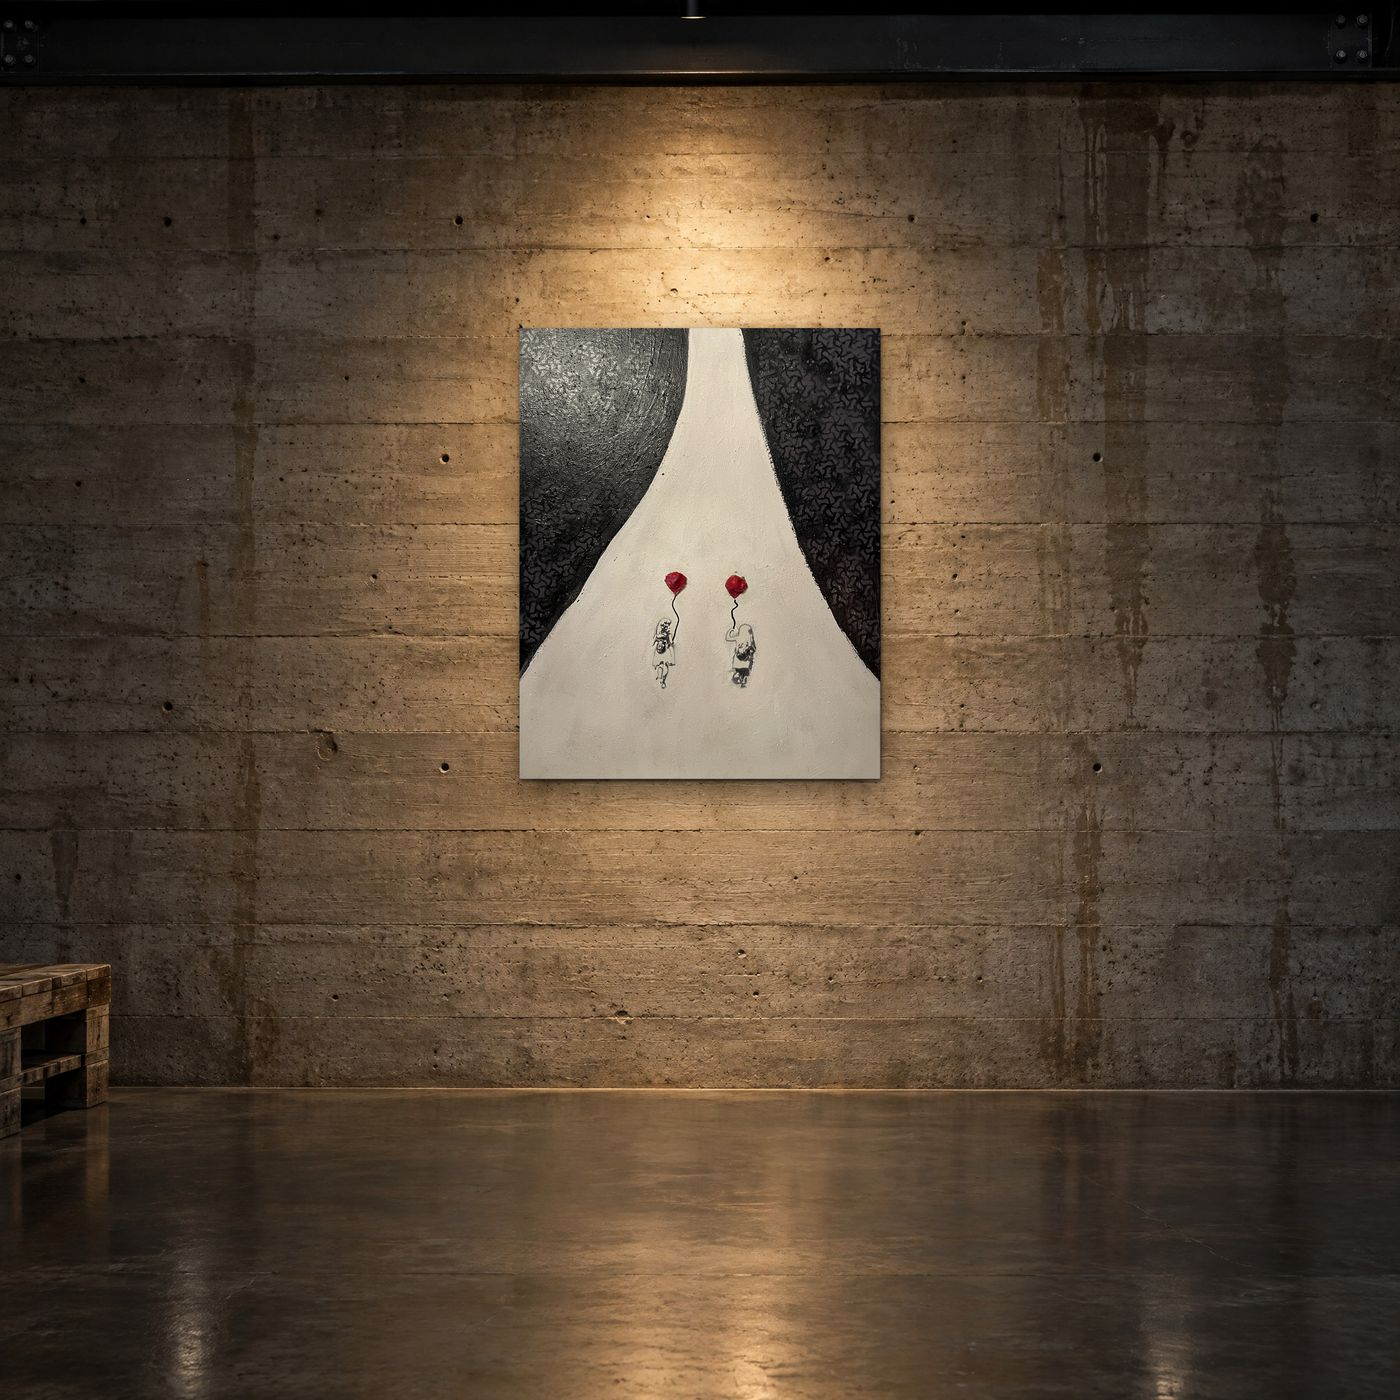
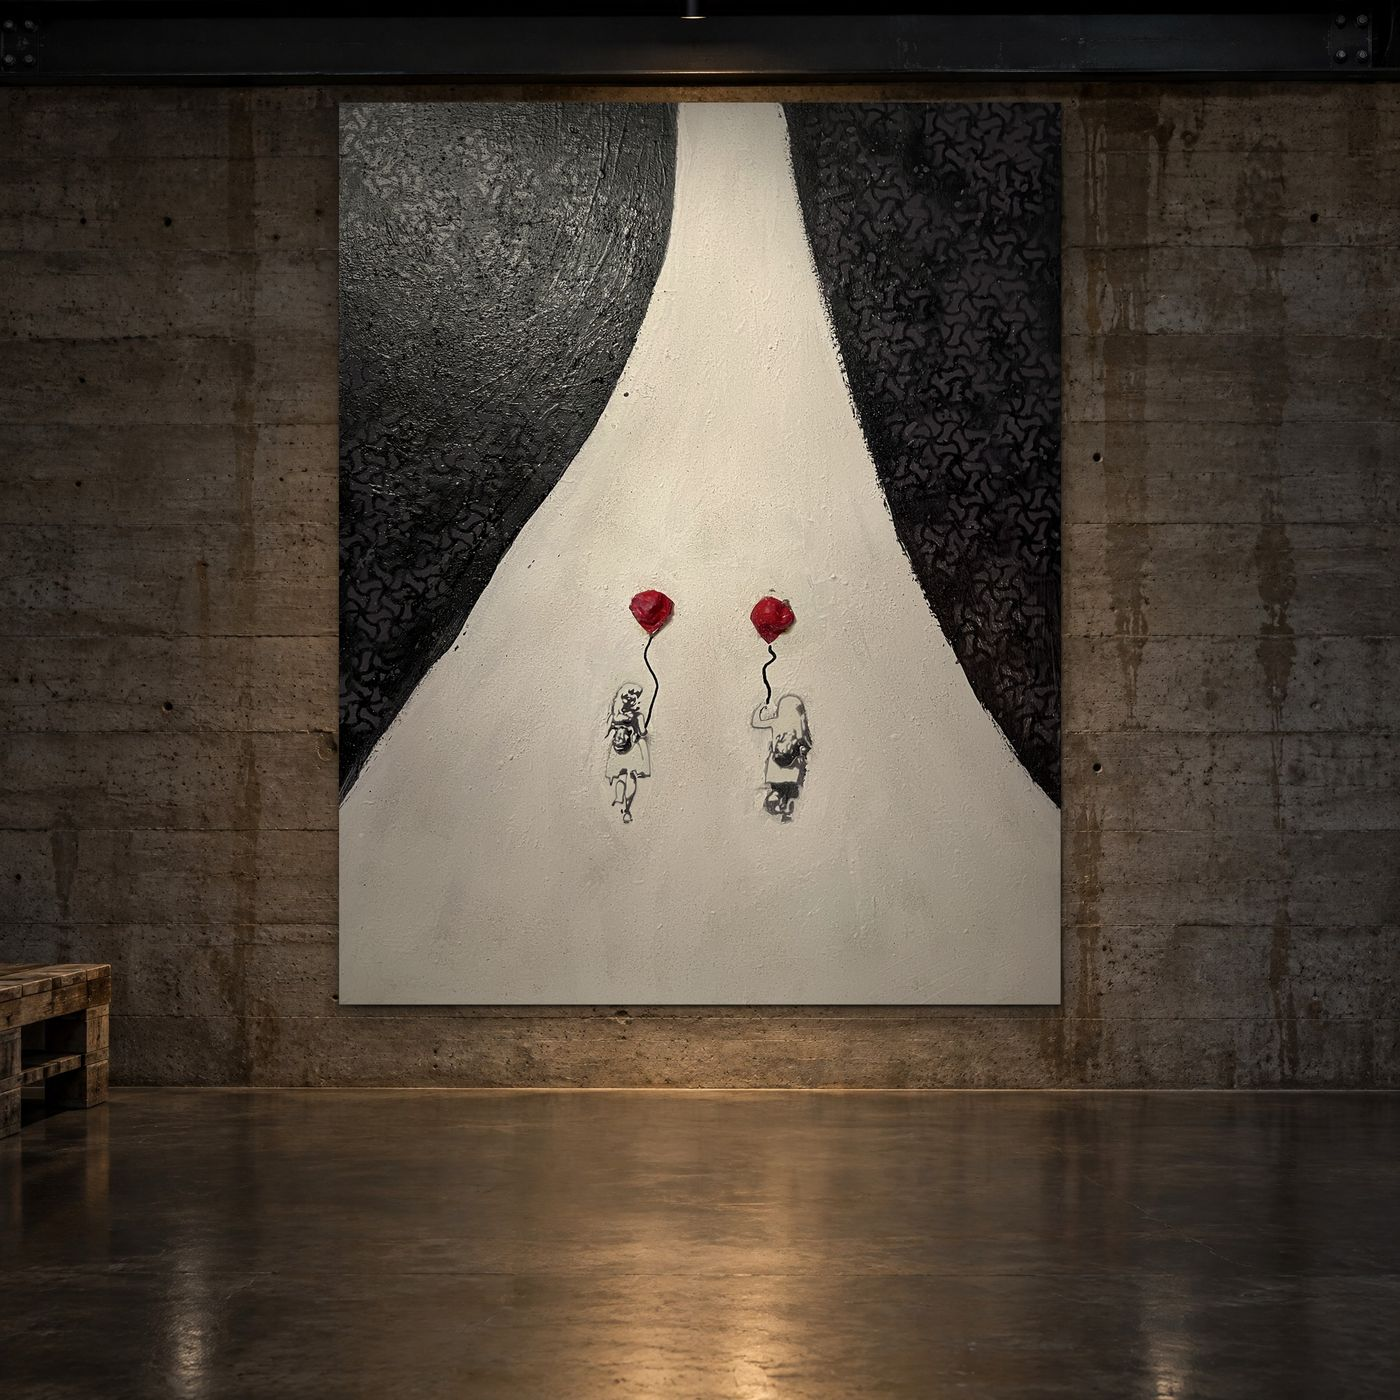
Add Stripe links, sizes, years and prices for the new paintings
Each of the 13 available new pieces now has its own live Stripe Payment
Link, set up like the existing ones (one sale, then it deactivates; $50
US shipping). Curtain Call and Walk Home are 48 × 60 in at $720 and
their wall photos are re-rendered at that size; the rest are 24 × 30 in
at $480 (Groundwater stays 30 × 30). Years filled in.

The shipping policy no longer says every frame is display-only, since
Open Heart and Purple & Gold sell with their frames.

Claude-Session: https://claude.ai/code/session_015duu2mxyZctHv8VGpV9Sao

Changed region(s): [[0.215, 0.0614, 0.7679, 0.7371]]

diff --git a/src/data/paintings.js b/src/data/paintings.js
@@ -28,7 +28,7 @@ export const paintings = [
   {
     id: 'pleasure-palace',
     title: 'Pleasure Palace',
-    year: null, // TODO: year from Scott
+    year: 2024,
     dimensions: '48 × 60 in',
     medium: 'Spray Paint, Acrylic, and Mixed Texture',
     framing: null,
@@ -92,13 +92,13 @@ export const paintings = [
   {
     id: 'verdigris',
     title: 'Verdigris',
-    year: null, // TODO: year from Scott
+    year: 2025,
     dimensions: '24 × 30 in',
     medium: 'Spray Paint, Acrylic, and Mixed Texture',
     framing: 'Unframed',
     price: '$480',
     status: 'Original Available',
-    stripeLink: '',
+    stripeLink: 'https://buy.stripe.com/7sYdRadjS9tUbnrbGY53O06', // live — one sale, then deactivates
     image: asset('artwork/verdigris-web.jpg'),
     hiRes: asset('artwork/verdigris.jpg'),
     canvas: asset('artwork/verdigris-canvas.jpg'),
@@ -108,13 +108,13 @@ export const paintings = [
   {
     id: 'nightshade',
     title: 'Nightshade',
-    year: null, // TODO: year from Scott
+    year: 2025,
     dimensions: '24 × 30 in',
     medium: 'Spray Paint, Acrylic, and Mixed Texture',
     framing: 'Unframed',
     price: '$480',
     status: 'Original Available',
-    stripeLink: '',
+    stripeLink: 'https://buy.stripe.com/8x2fZi2FecG64Z3dP653O07', // live — one sale, then deactivates
     image: asset('artwork/nightshade-web.jpg'),
     hiRes: asset('artwork/nightshade.jpg'),
     canvas: asset('artwork/nightshade-canvas.jpg'),
@@ -124,13 +124,13 @@ export const paintings = [
   {
     id: 'backporch',
     title: 'Backporch',
-    year: null, // TODO: year from Scott
+    year: 2025,
     dimensions: '24 × 30 in',
     medium: 'Spray Paint, Acrylic, and Mixed Texture',
     framing: 'Unframed',
     price: '$480',
     status: 'Original Available',
-    stripeLink: '',
+    stripeLink: 'https://buy.stripe.com/7sY8wQfs00XogHLaCU53O08', // live — one sale, then deactivates
     image: asset('artwork/backporch-web.jpg'),
     hiRes: asset('artwork/backporch.jpg'),
     canvas: asset('artwork/backporch-canvas.jpg'),
@@ -140,13 +140,13 @@ export const paintings = [
   {
     id: 'understory',
     title: 'Understory',
-    year: null, // TODO: year from Scott
+    year: 2024,
     dimensions: '24 × 30 in',
     medium: 'Spray Paint, Acrylic, and Mixed Texture',
     framing: 'Unframed',
     price: '$480',
     status: 'Original Available',
-    stripeLink: '',
+    stripeLink: 'https://buy.stripe.com/eVqeVe7Zy7lM8bf12k53O09', // live — one sale, then deactivates
     image: asset('artwork/understory-web.jpg'),
     hiRes: asset('artwork/understory.jpg'),
     canvas: asset('artwork/understory-canvas.jpg'),
@@ -156,13 +156,13 @@ export const paintings = [
   {
     id: 'rust-signal',
     title: 'Rust Signal',
-    year: null, // TODO: year from Scott
+    year: 2023,
     dimensions: '24 × 30 in',
     medium: 'Spray Paint, Acrylic, and Mixed Texture',
     framing: 'Unframed',
     price: '$480',
     status: 'Original Available',
-    stripeLink: '',
+    stripeLink: 'https://buy.stripe.com/14AfZi1Ba49AezD12k53O0a', // live — one sale, then deactivates
     image: asset('artwork/rust-signal-web.jpg'),
     hiRes: asset('artwork/rust-signal.jpg'),
     canvas: asset('artwork/rust-signal-canvas.jpg'),
@@ -172,13 +172,13 @@ export const paintings = [
   {
     id: 'groundwater',
     title: 'Groundwater',
-    year: null, // TODO: year from Scott
+    year: 2023,
     dimensions: '30 × 30 in',
     medium: 'Spray Paint, Acrylic, and Mixed Texture',
     framing: 'Unframed',
     price: '$480',
     status: 'Original Available',
-    stripeLink: '',
+    stripeLink: 'https://buy.stripe.com/4gM3cwdjS7lM2QVh1i53O0b', // live — one sale, then deactivates
     image: asset('artwork/groundwater-web.jpg'),
     hiRes: asset('artwork/groundwater.jpg'),
     canvas: asset('artwork/groundwater-canvas.jpg'),
@@ -188,13 +188,13 @@ export const paintings = [
   {
     id: 'floor-plan',
     title: 'Floor Plan',
-    year: null, // TODO: year from Scott
+    year: 2024,
     dimensions: '24 × 30 in',
     medium: 'Spray Paint, Acrylic, and Mixed Texture',
     framing: 'Unframed',
     price: '$480',
     status: 'Original Available',
-    stripeLink: '',
+    stripeLink: 'https://buy.stripe.com/00w9AUdjS6hI2QV3as53O0c', // live — one sale, then deactivates
     image: asset('artwork/floor-plan-web.jpg'),
     hiRes: asset('artwork/floor-plan.jpg'),
     canvas: asset('artwork/floor-plan-canvas.jpg'),
@@ -204,13 +204,13 @@ export const paintings = [
   {
     id: 'curtain-call',
     title: 'Curtain Call',
-    year: null, // TODO: year from Scott
-    dimensions: '24 × 30 in', // TODO: confirm size with Scott
+    year: 2022,
+    dimensions: '48 × 60 in',
     medium: 'Spray Paint, Acrylic, and Mixed Texture',
     framing: 'Unframed',
-    price: '$480',
+    price: '$720',
     status: 'Original Available',
-    stripeLink: '',
+    stripeLink: 'https://buy.stripe.com/8x228s93CbC21MR6mE53O0d', // live — one sale, then deactivates
     image: asset('artwork/curtain-call-web.jpg'),
     hiRes: asset('artwork/curtain-call.jpg'),
     canvas: asset('artwork/curtain-call-canvas.jpg'),
@@ -220,13 +220,13 @@ export const paintings = [
   {
     id: 'open-heart',
     title: 'Open Heart',
-    year: null, // TODO: year from Scott
-    dimensions: '30 × 30 in', // TODO: confirm size with Scott
+    year: 2022,
+    dimensions: '24 × 30 in',
     medium: 'Acrylic and Mixed Texture',
     framing: 'Framed (gold frame included)',
     price: '$480',
     status: 'Original Available',
-    stripeLink: '',
+    stripeLink: 'https://buy.stripe.com/4gM9AUbbKdKafDH26o53O0e', // live — one sale, then deactivates
     image: asset('artwork/open-heart-web.jpg'),
     hiRes: asset('artwork/open-heart.jpg'),
     canvas: asset('artwork/open-heart-canvas.jpg'),
@@ -236,13 +236,13 @@ export const paintings = [
   {
     id: 'gloves-off',
     title: 'Gloves Off',
-    year: null, // TODO: year from Scott
-    dimensions: '24 × 30 in', // TODO: confirm size with Scott
+    year: 2023,
+    dimensions: '24 × 30 in',
     medium: 'Boxing Gloves, Acrylic, and Mixed Texture on Canvas',
     framing: 'Unframed',
     price: '$480',
     status: 'Original Available',
-    stripeLink: '',
+    stripeLink: 'https://buy.stripe.com/5kQ14o4Nm8pQbnr8uM53O0f', // live — one sale, then deactivates
     image: asset('artwork/gloves-off-web.jpg'),
     hiRes: asset('artwork/gloves-off.jpg'),
     canvas: asset('artwork/gloves-off-canvas.jpg'),
@@ -252,13 +252,13 @@ export const paintings = [
   {
     id: 'fault-lines',
     title: 'Fault Lines',
-    year: null, // TODO: year from Scott
-    dimensions: '24 × 30 in', // TODO: confirm size with Scott
+    year: 2022,
+    dimensions: '24 × 30 in',
     medium: 'Spray Paint, Acrylic, and Mixed Texture',
     framing: 'Unframed',
     price: '$480',
     status: 'Original Available',
-    stripeLink: '',
+    stripeLink: 'https://buy.stripe.com/5kQcN6bbK8pQbnrdP653O0g', // live — one sale, then deactivates
     image: asset('artwork/fault-lines-web.jpg'),
     hiRes: asset('artwork/fault-lines.jpg'),
     canvas: asset('artwork/fault-lines-canvas.jpg'),
@@ -268,13 +268,13 @@ export const paintings = [
   {
     id: 'purple-and-gold',
     title: 'Purple & Gold',
-    year: null, // TODO: year from Scott
-    dimensions: '36 × 24 in', // TODO: confirm size with Scott
+    year: 2022,
+    dimensions: '24 × 30 in',
     medium: 'Spray Paint, Acrylic, and Mixed Texture',
     framing: 'Framed (black frame included)',
     price: '$480',
     status: 'Original Available',
-    stripeLink: '',
+    stripeLink: 'https://buy.stripe.com/00w9AU7ZydKa77bdP653O0h', // live — one sale, then deactivates
     image: asset('artwork/purple-and-gold-web.jpg'),
     hiRes: asset('artwork/purple-and-gold.jpg'),
     canvas: asset('artwork/purple-and-gold-canvas.jpg'),
@@ -284,13 +284,13 @@ export const paintings = [
   {
     id: 'walk-home',
     title: 'Walk Home',
-    year: null, // TODO: year from Scott
-    dimensions: '24 × 30 in', // TODO: confirm size with Scott
+    year: 2023,
+    dimensions: '48 × 60 in',
     medium: 'Spray Paint, Acrylic, and Mixed Texture',
     framing: 'Unframed',
-    price: '$480',
+    price: '$720',
     status: 'Original Available',
-    stripeLink: '',
+    stripeLink: 'https://buy.stripe.com/00w14o2FefSi8bf4ew53O0i', // live — one sale, then deactivates
     image: asset('artwork/walk-home-web.jpg'),
     hiRes: asset('artwork/walk-home.jpg'),
     canvas: asset('artwork/walk-home-canvas.jpg'),

diff --git a/src/components/Policies.jsx b/src/components/Policies.jsx
@@ -24,7 +24,7 @@ const sections = [
       <>Every painting is an original, one of one. It ships from Chicago within 5 business days of your purchase.</>,
       <>We ship within the United States for a flat $50, which covers packing and insurance for the full purchase price. Outside the US? Send an inquiry from any painting and we'll quote shipping to you.</>,
       <>Each painting is wrapped, protected at the corners and boxed for the trip.</>,
-      <>Paintings ship unframed and wired, ready to hang. Any frames shown in the photos are for display only.</>,
+      <>Paintings ship unframed and wired, ready to hang, unless the listing says a frame is included.</>,
       <>Each painting comes with a signed certificate of authenticity.</>,
       <>We'll email you tracking once it ships. Please double-check your shipping address at checkout. Need to change it? Email {email} before it ships.</>,
     ],
